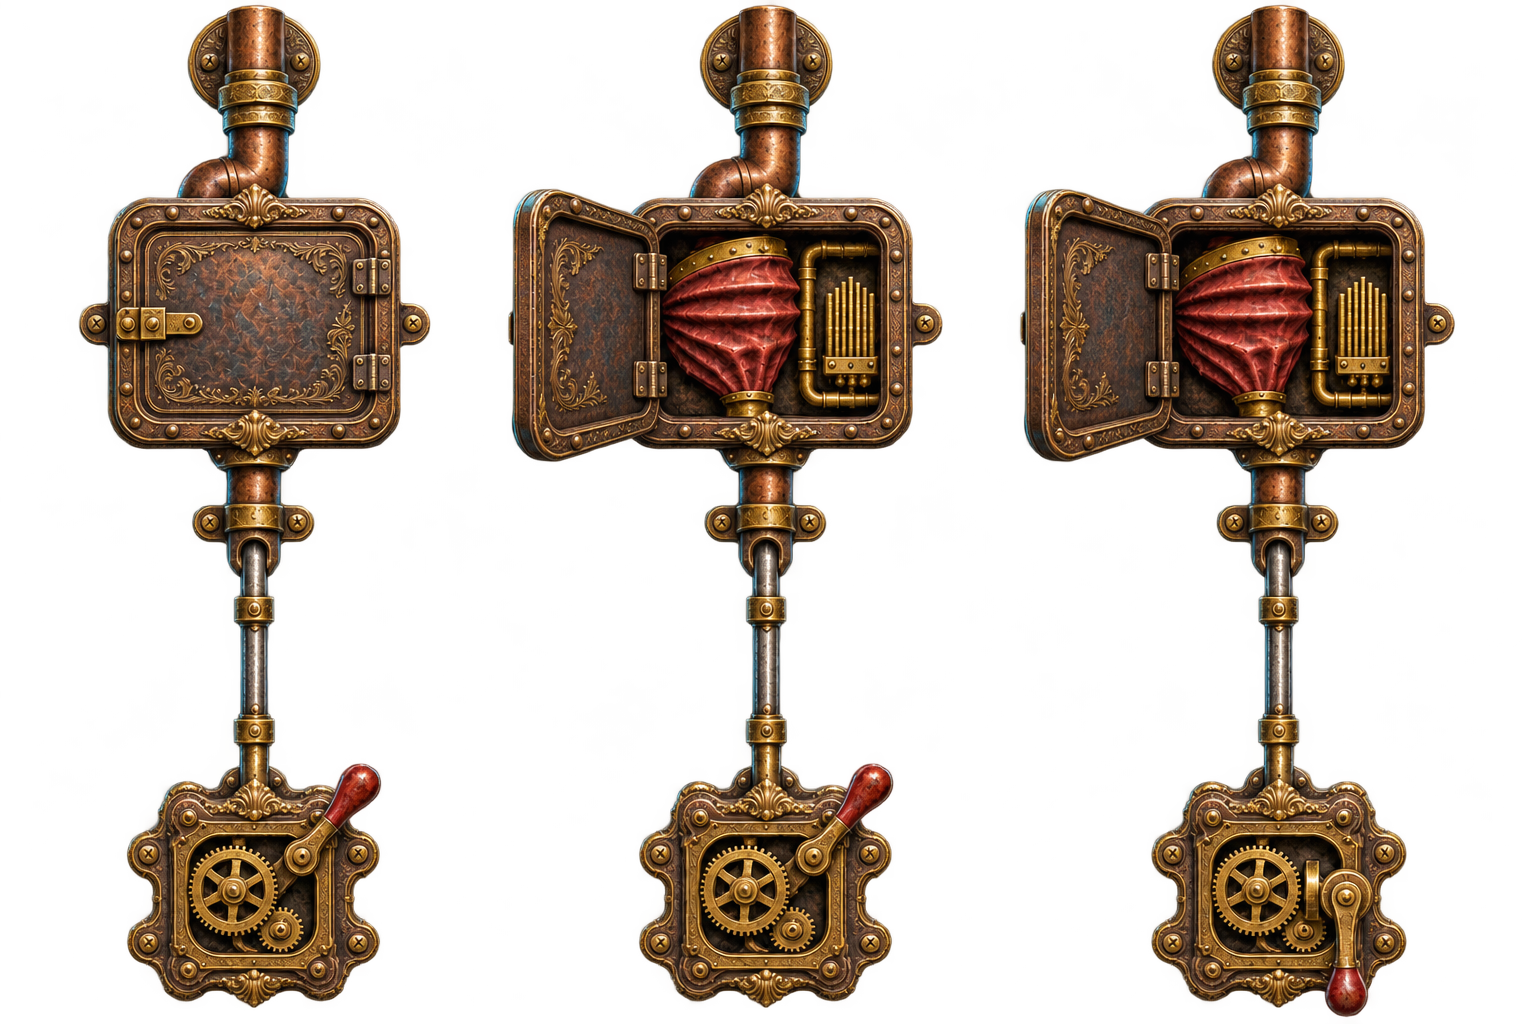
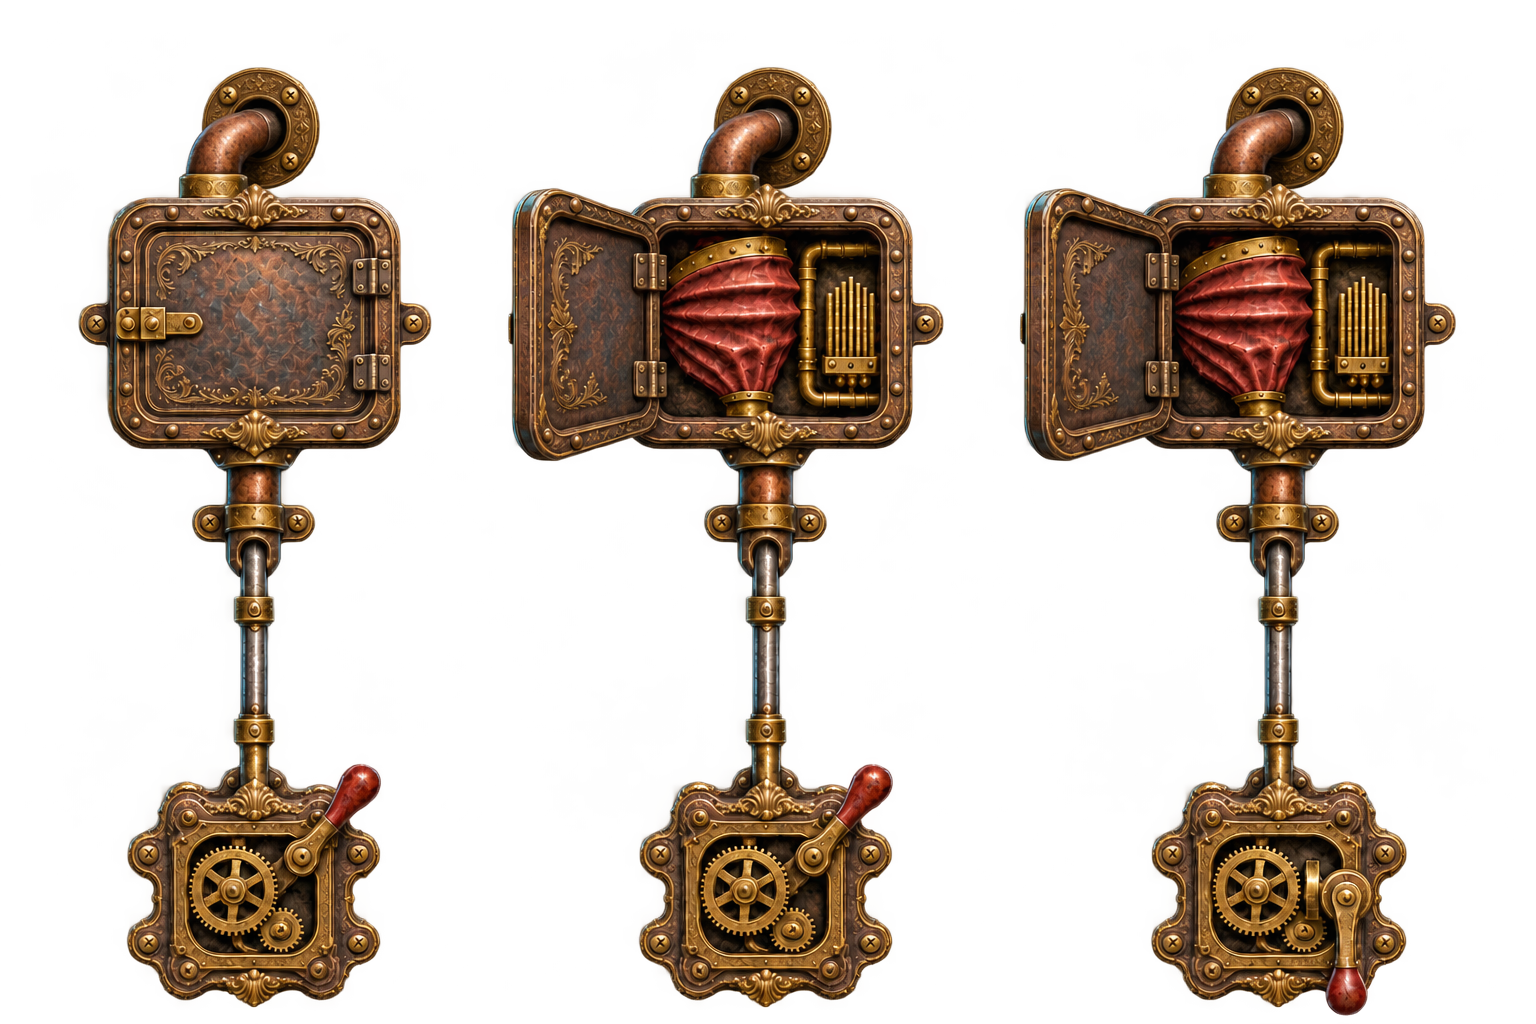
fix: terminate service tube inside the kitchen wall

diff --git a/src/games/point-and-click-adventure/content.ts b/src/games/point-and-click-adventure/content.ts
@@ -76,8 +76,8 @@ export const targets = {
   libraryHall: exit('library', 'hall', 55), libraryKitchen: exit('library', 'kitchen', 855),
   brush: { ...prop('kitchen', 'Cleaning brush', 250, 330, 70, 45, 'Take', items.brush.description), at: { x: 285, y: 442 } },
   poker: prop('kitchen', 'Fireplace poker', 380, 260, 35, 120, 'Take', items.poker.description),
-  tube: { ...prop('kitchen', 'Service tube', 490, 90, 140, 105, 'Inspect', 'The soot-choked cleanout is high above my head. Its latch and grille are beyond the short brush. A drive rod runs down to the clock control below.', 'prop', 'inspect'), at: { x: 650, y: 405 } },
-  clock: { ...prop('kitchen', 'Service clock control', 530, 285, 85, 80, 'Try lever', 'A clockwork drive and engagement lever at hand height. Its rod connects to the high cleanout.'), at: { x: 650, y: 405 } },
+  tube: { ...prop('kitchen', 'Service tube', 515, 95, 125, 90, 'Inspect', 'The soot-choked cleanout is high above my head. Its latch and grille are beyond the short brush. A drive rod runs down to the clock control below.', 'prop', 'inspect'), at: { x: 650, y: 405 } },
+  clock: { ...prop('kitchen', 'Service clock control', 550, 265, 75, 70, 'Try lever', 'A clockwork drive and engagement lever within reach. Its rod connects to the high cleanout.'), at: { x: 650, y: 405 } },
   cabinet: prop('kitchen', 'Household cabinet', 690, 235, 115, 150, 'Open', 'A winding key hangs behind the locked glass. Evelyn may have the household key.'),
   kitchenLibrary: exit('kitchen', 'library', 55), kitchenGallery: exit('kitchen', 'gallery', 855),
   chain: prop('bell', 'Loose chain', 240, 270, 65, 125, 'Attach chain', 'The chain has slipped free of its marked anchor. Oswald was trying to put it back.'),

diff --git a/src/games/point-and-click-adventure/presentation.ts b/src/games/point-and-click-adventure/presentation.ts
@@ -119,9 +119,9 @@ export function createPresentation(surface: HTMLElement, art: AdventureArt = arc
       case 'brush': sprite(c, 'brush', x + 12, y - 7, 45, 60, -Math.PI / 2.5); return;
       case 'tube': {
         const f = serviceFrames[has(run, 'disabled') ? 'stopped' : has(run, 'tubeOpen') ? 'open' : 'closed'];
-        // This complete authored assembly joins the room's upper pipework. The
-        // cleanout and reachable lower clock control have separate action areas.
-        c.drawImage(resource.images.service!, f.x, f.y, f.w, f.h, 480, 30, 170, 340);
+        // The upper elbow terminates inside the wall. Keep this fitting clear
+        // of decorative pipework and leave masonry visible beneath the clock.
+        c.drawImage(resource.images.service!, f.x, f.y, f.w, f.h, 510, 40, 150, 300);
         return;
       }
       case 'clock': return; // Drawn with the connected service assembly above.

diff --git a/src/games/point-and-click-adventure/art/README.md b/src/games/point-and-click-adventure/art/README.md
@@ -26,7 +26,8 @@ Edit complete cels or room plates in the source PNGs, then export again.
 
 | Source | Layout and runtime contract |
 | --- | --- |
-| `rooms.png` | 1366 × 1151, two columns and three rows: hall/gallery, library/kitchen, bell/spare hall. Inspected seams and floor-edge registration live in `pack.mjs`. The five runtime plates are 960 × 540, with the wall/floor edge registered to y=365. |
+| `rooms.png` | 1366 × 1151, two columns and three rows: hall/gallery, library/kitchen, bell/spare hall. Inspected seams and floor-edge registration live in `pack.mjs`. The runtime plates are 960 × 540, with the wall/floor edge registered to y=365. The kitchen now uses the dedicated cleaned plate below instead of its atlas tile. |
+| `kitchen.png` | 1672 × 941 dedicated kitchen painting with the decorative vertical pipe removed. Preserve the same room framing and world y=365 floor seam. |
 | `cast.png` | 1536 × 1024, four columns and three rows. Wren's standing, reach and lantern poses and the five household characters. The original walk studies remain in the source but are superseded by `walk.png`. Explicit crop rectangles and hip/boot anchors live in `../art.ts`. |
 | `walk.png` | 1536 × 1024, four columns and two rows. Eight complete Wren cels in chronological stride order, registered to a common hip column and boot baseline. The runtime uses `walk.webp`; frame roles, source-scale adjustment and stride distance live in `../art.ts`. |
 | `props.png` | 1254 × 1254, five columns and rows of complete doors, clues, equipment and object states. `prop-frames.ts` records alpha bounds. |
@@ -37,11 +38,12 @@ Edit complete cels or room plates in the source PNGs, then export again.
 
 The service cleanout sits visibly above Wren's unaided reach. The extended brush
 can clear its high grille and lift its latch, while a separate hand-height clock
-control tests the bellows and disconnects their drive. A continuous copper pipe
-joins the upper room pipework, and a visible drive shaft connects the high hatch
-to the low clock. Wall brackets, compression collars and flanges give every
-connection a physical termination. Keep the lower lever unobstructed at Wren's
-authored side approach.
+control tests the bellows and disconnects their drive. A short upper elbow
+turns into a bolted wall flange, independently of decorative room pipework; a
+visible drive shaft connects the high hatch to the low clock. Keep a clear band
+of masonry beneath the clock, and keep the lower lever unobstructed at Wren's
+authored side approach. Arcade's dedicated kitchen plate removes the conflicting
+vertical background pipe; Deluxe keeps its separate overhead pipe as scenery.
 
 Both presentations use complete three-state assembly drawings from their own
 `source/service.png`, exported as `service.webp`. The renderer places each full

diff --git a/src/games/point-and-click-adventure/art/prompts.md b/src/games/point-and-click-adventure/art/prompts.md
@@ -78,3 +78,13 @@ Use case: stylized-concept. Create a new production sprite sheet for the Arcade 
 Each complete wall-mounted service tube and clock assembly is tall and narrow: a continuous vertical copper pipe centered in its cell, a brass compression coupling at the top for connecting to room pipework, a large bolted cleanout hatch in the upper third, and a slender mechanical drive shaft descending to a small brass clockwork controller with visible cogwheel and red engagement lever in the bottom fifth. Hatch about 300 pixels wide, pipe about 55 pixels, controller about 180 pixels. Frontal camera with subtle depth, compact wall brackets and visible physical pipe terminations. Preserve transparent margins.
 
 Column 1: closed soot-clogged hatch, clock lever engaged. Column 2: identical assembly, hatch door open left exposing red leather bellows and a brass reed, clock lever engaged. Column 3: identical open assembly, lower red lever down and a visible disengaged clutch gap. Stationary parts stay in exactly the same positions, including pipe center, hatch body, controller and shaft. No clock face or numbers. The high hatch requires the extended brush, while the lower control is reachable by hand.
+
+## Wall termination edit
+
+Use case: precise-object-edit. Edit the existing 1536 × 1024 three-column service assembly sheet. In each 512 × 1024 cell replace only the upright open-ended pipe above the large hatch with a short copper 90-degree elbow turning back into the wall and disappearing into the dark central bore of a circular bolted wall flange. Show the flange flat against the wall in three-quarter view, with a closed, unambiguous wall connection. No open top or connection to ceiling pipework. Leave transparent margin above the fitting.
+
+Preserve every hatch, open door, bellows, reed, lower drive pipe, shaft, clock gear and red-lever state, exact cell placement, scale, canvas and registration. Keep the original painterly iron, copper and brass. True transparent alpha around silhouettes and gaps, no background haze, text or new components.
+
+## Kitchen pipe removal
+
+Use case: precise-object-edit. Edit the 960 × 540 kitchen painting. Remove only the copper vertical drain pipe around x=535–580, y=0–145, including elbow and wall flange. Fill its silhouette with matching soot-dark masonry and candlelit wall texture. Preserve the fireplace, hood, all other masonry, floor seam at y=365, floor, perspective, color, lighting and framing. Opaque edge-to-edge background, no new props or actors. Export as the dedicated kitchen source plate.

diff --git a/src/games/point-and-click-adventure/art/deluxe/prompts.md b/src/games/point-and-click-adventure/art/deluxe/prompts.md
@@ -85,3 +85,9 @@ All nine complete illustrations consistent scale per role, readable polished sha
 Use case: style-transfer. Use Arcade's `source/service.png` as the geometry and state reference and Deluxe's prop atlas as the material reference. Preserve the 1536 × 1024 canvas, three equal full-height columns, identical assembly alignment and scale, high cleanout, continuous pipe and drive shaft, and low clock control. Column 1 has the closed hatch and engaged red lever. Column 2 has the hatch open left, exposing red leather bellows and a brass reed, with the lever engaged. Column 3 has the same open hatch with its lever down and clutch disconnected.
 
 Render complete wall-mounted assemblies with dimensional aged copper, subtly engraved bronze, convincing red leather, fine wall flanges and brackets, warm key light and restrained cool blue rim light. Preserve the first image's geometry while improving material depth and sculptural finish. True transparent alpha outside and inside physical silhouettes. No scenery, background haze, glow, ground, cast shadows, gradients, labels, clock numbers, text or grid. Keep complete drawings inside their own 512 × 1024 cells.
+
+## Wall termination edit
+
+Use case: precise-object-edit. Edit the existing Deluxe 1536 × 1024 three-column service assembly sheet. In each equal 512 × 1024 cell replace only the upright open-ended copper pipe above the hatch with a short 90-degree elbow turning back into the wall and disappearing into the dark central bore of a round bolted wall flange. Make the closed wall termination clear, with transparent margin above it and no upward pipe end or ceiling connection.
+
+Preserve all other silhouettes, pixels and placement: ornate engraved hatches, open doors, bellows, reeds, shaft, clock gears and red-lever states. Preserve exact cell scale and registration, aged bronze, copper, leather, warm key and cool rim lighting. True alpha around physical silhouettes and gaps. No background haze, glow, text, floor or new components.

diff --git a/docs/games/point-and-click-adventure/README.md b/docs/games/point-and-click-adventure/README.md
@@ -2,7 +2,7 @@
 
 **Arcade: Blackthorn by Candlelight · Deluxe: Blackthorn Nocturne · collection ID `guest`.** A complete short point-and-click case with painted Gothic rooms, complete character cels and illustrated investigative tools. Select **The Thirteenth Guest** in the collection and press **Play**, or **Continue saved adventure** to resume this browser’s saved case.
 
-![The Thirteenth Guest · Deluxe: Wren beside the reachable clock control beneath the open high service cleanout](preview.webp)
+![The Thirteenth Guest · Deluxe: Wren beside the wall-mounted service assembly, with its high cleanout and reachable clock control](preview.webp)
 
 Blackthorn Castle, 1889. Percival Wren, Consulting Detective of Unnatural Affairs, has been hired to clear a troublesome haunting. Investigate physical clues, question an eccentric household, and work out why the ghosts seem more worried about your client than about you. The kit is brass, leather, glass and candlelight. No deaths, timed conversation choices or irretrievable essential items interrupt the investigation.
 

diff --git a/CATALOG.md b/CATALOG.md
@@ -146,7 +146,7 @@ Pressing Play, Continue or Restart applies thrust immediately while held. Cloud 
 
 ## The Thirteenth Guest
 
-![The Thirteenth Guest · Deluxe: Wren beside the reachable clock control beneath the open high service cleanout](docs/games/point-and-click-adventure/preview.webp)
+![The Thirteenth Guest · Deluxe: Wren beside the wall-mounted service assembly, with its high cleanout and reachable clock control](docs/games/point-and-click-adventure/preview.webp)
 
 Investigate an old castle as **Percival Wren**, a Victorian detective of unnatural affairs. Follow physical clues, question the ghost household, improvise with everyday objects and support your conclusions in the casebook. Two investigation paths lead to a confrontation, a supernatural reversal and a spirit-containment finale across five rooms.
 
